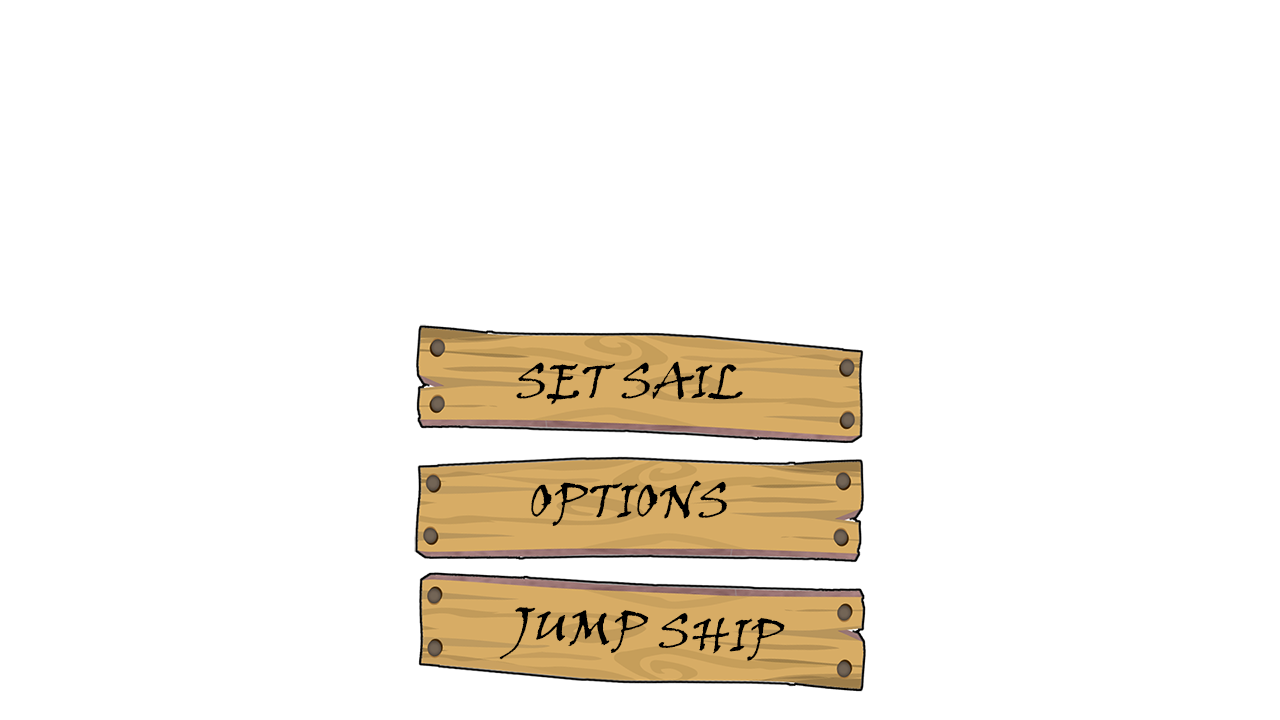
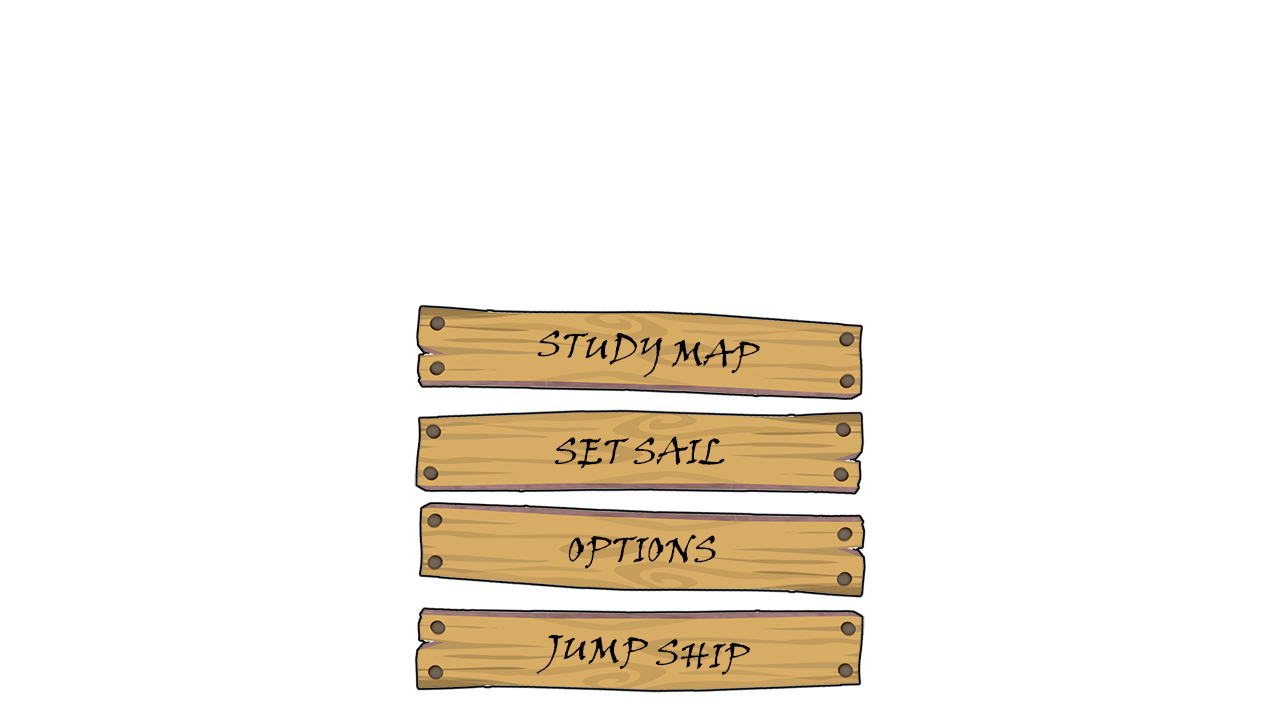
instructions menu added

Changed region(s): [[0.3125, 0.4278, 0.6875, 0.9778]]

diff --git a/ZephyrEngine/GameSystem.cpp b/ZephyrEngine/GameSystem.cpp
@@ -280,12 +280,12 @@ void GameSystem::handleMessage(Msg *msg) {
 		case DOWN_ARROW_PRESSED:
 			// move the marker location and let rendering know?
 			markerPosition++;
-			if (markerPosition > 2) {
-				markerPosition = 2;
+			if (markerPosition > 3) {
+				markerPosition = 3;
 			}
 
 			mm->type = UPDATE_OBJ_SPRITE;
-			oss <<"obj3,1,Z6_Marker_P" << markerPosition << ".png,";
+			oss <<"obj3,1,MZ6_Marker_P" << markerPosition << ".png,";
 			mm->data = oss.str();
 			msgBus->postMessage(mm, this);
 			break;
@@ -295,18 +295,18 @@ void GameSystem::handleMessage(Msg *msg) {
 			if (markerPosition < 0) {
 				markerPosition = 0;
 			}
-			markerPosition = markerPosition % 3;
+			markerPosition = markerPosition % 4;
 
 			mm->type = UPDATE_OBJ_SPRITE;
-			oss << "obj3,1,Z6_Marker_P" << markerPosition << ".png,";
+			oss << "obj3,1,MZ6_Marker_P" << markerPosition << ".png,";
 			mm->data = oss.str();
 			msgBus->postMessage(mm, this);
 			break;
 		case SPACEBAR_PRESSED:
-			if (markerPosition == 2) {
+			if (markerPosition == 3) {
 				// Exit was selected, kill main
 				malive = false;
-			} else if (markerPosition == 1) {
+			} else if (markerPosition == 2) {
 				// Go to settings
 				removeAllGameObjects();
 				addGameObjects("settings_menu.txt");
@@ -314,7 +314,7 @@ void GameSystem::handleMessage(Msg *msg) {
 				markerPosition = 0;
 				Msg* m = new Msg(LEVEL_LOADED, "1");
 				msgBus->postMessage(m, this);
-			} else if (markerPosition == 0) {
+			} else if (markerPosition == 1) {
 				// start the game (or go to level select?)
 				// first, clear all objects
 				removeAllGameObjects();
@@ -325,14 +325,32 @@ void GameSystem::handleMessage(Msg *msg) {
 				Msg* m = new Msg(LEVEL_LOADED, "2");
 				msgBus->postMessage(m, this);
 				score = 0;
+			} else if (markerPosition == 0) {
+				// instructions page
+				removeAllGameObjects();
+				addGameObjects("instructions_menu.txt");
+				levelLoaded = 4;
+				markerPosition = 0;
+				Msg* m = new Msg(LEVEL_LOADED, "4");
+				msgBus->postMessage(m, this);
 			}
 			break;
 		default:
 			break;
 		}
 
-	}
-	else if (levelLoaded == 1) {
+	} else if (levelLoaded == 4) {
+		// instructions menu
+		// only one option; to go back to menu
+		if (msg->type == SPACEBAR_PRESSED) {
+			removeAllGameObjects();
+			addGameObjects("main_menu.txt");
+			levelLoaded = 0;
+			markerPosition = 0;
+			Msg* m = new Msg(LEVEL_LOADED, "0");
+			msgBus->postMessage(m, this);
+		}
+	} else if (levelLoaded == 1) {
 		// settings menu
 		switch (msg->type) {
 		case DOWN_ARROW_PRESSED:

diff --git a/ZephyrEngine/GameSystem.h b/ZephyrEngine/GameSystem.h
@@ -44,7 +44,8 @@ public:
 	// 0	= Main Menu
 	// 1	= Settings
 	// 2	= In Game
-	// 3	= Level select (if required)
+	// 3	= Game Over
+	// 4	= Instructions
 	int levelLoaded = -1;
 
 	int score = 0;
